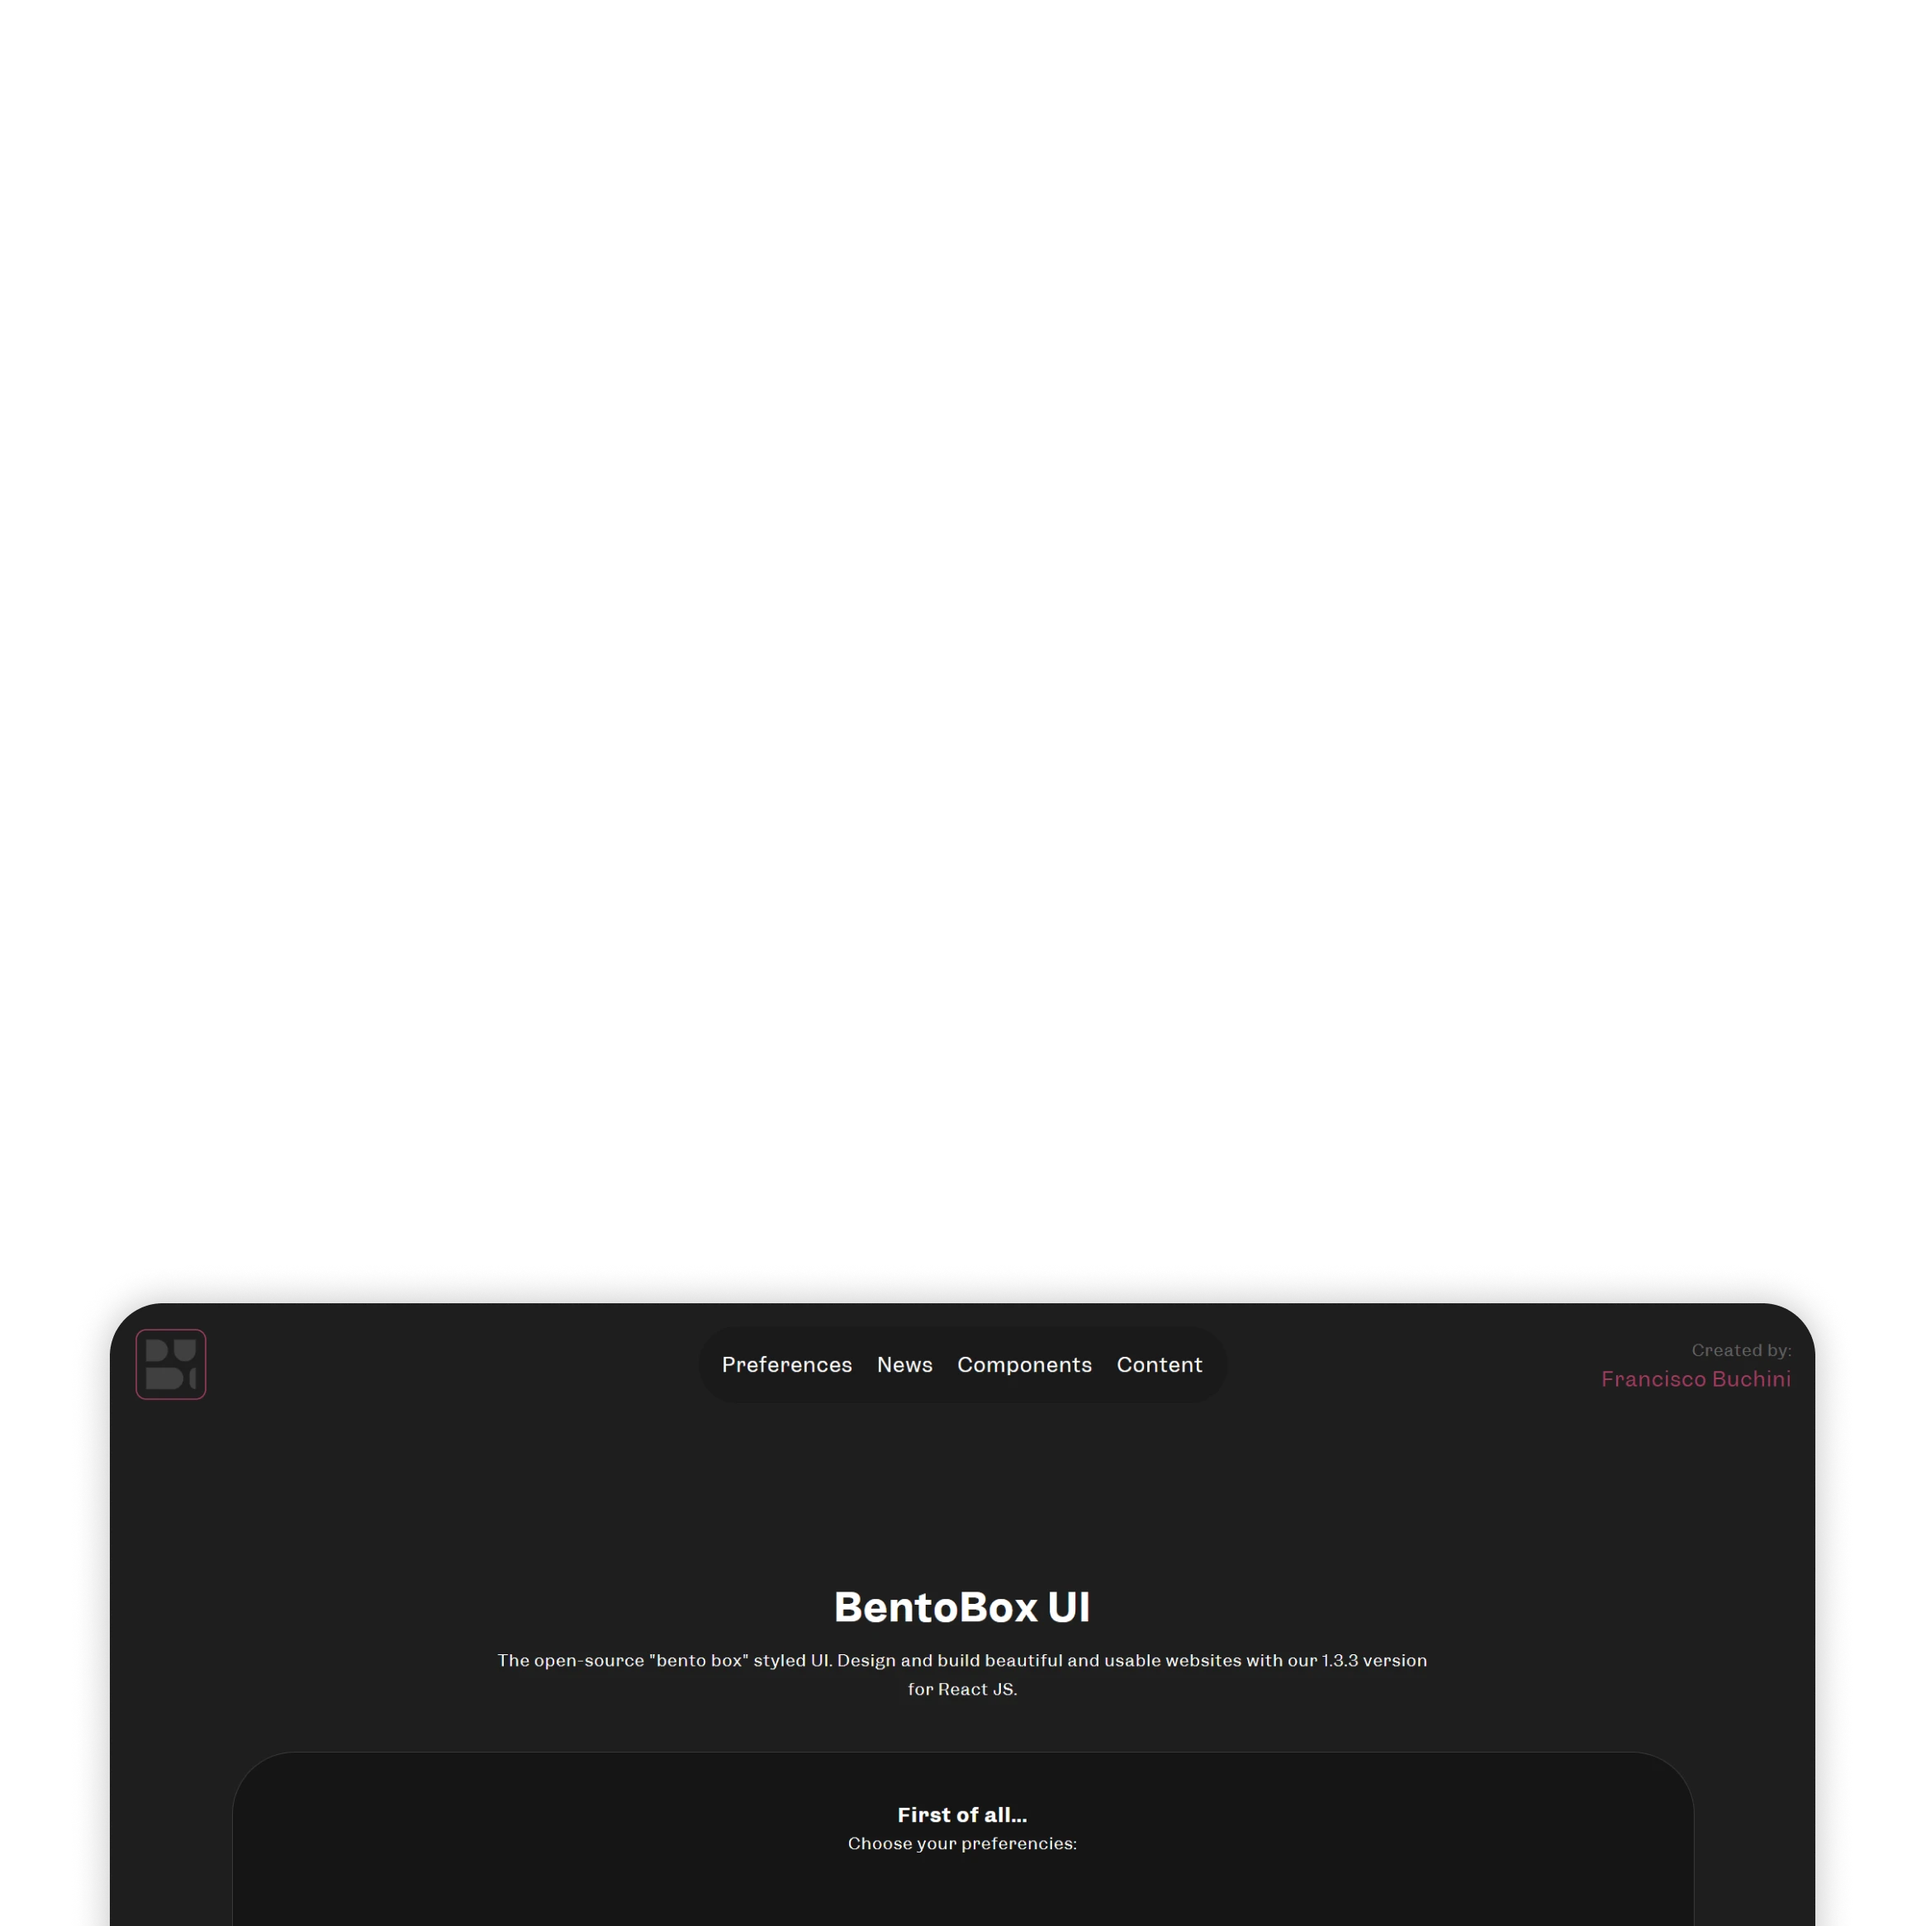
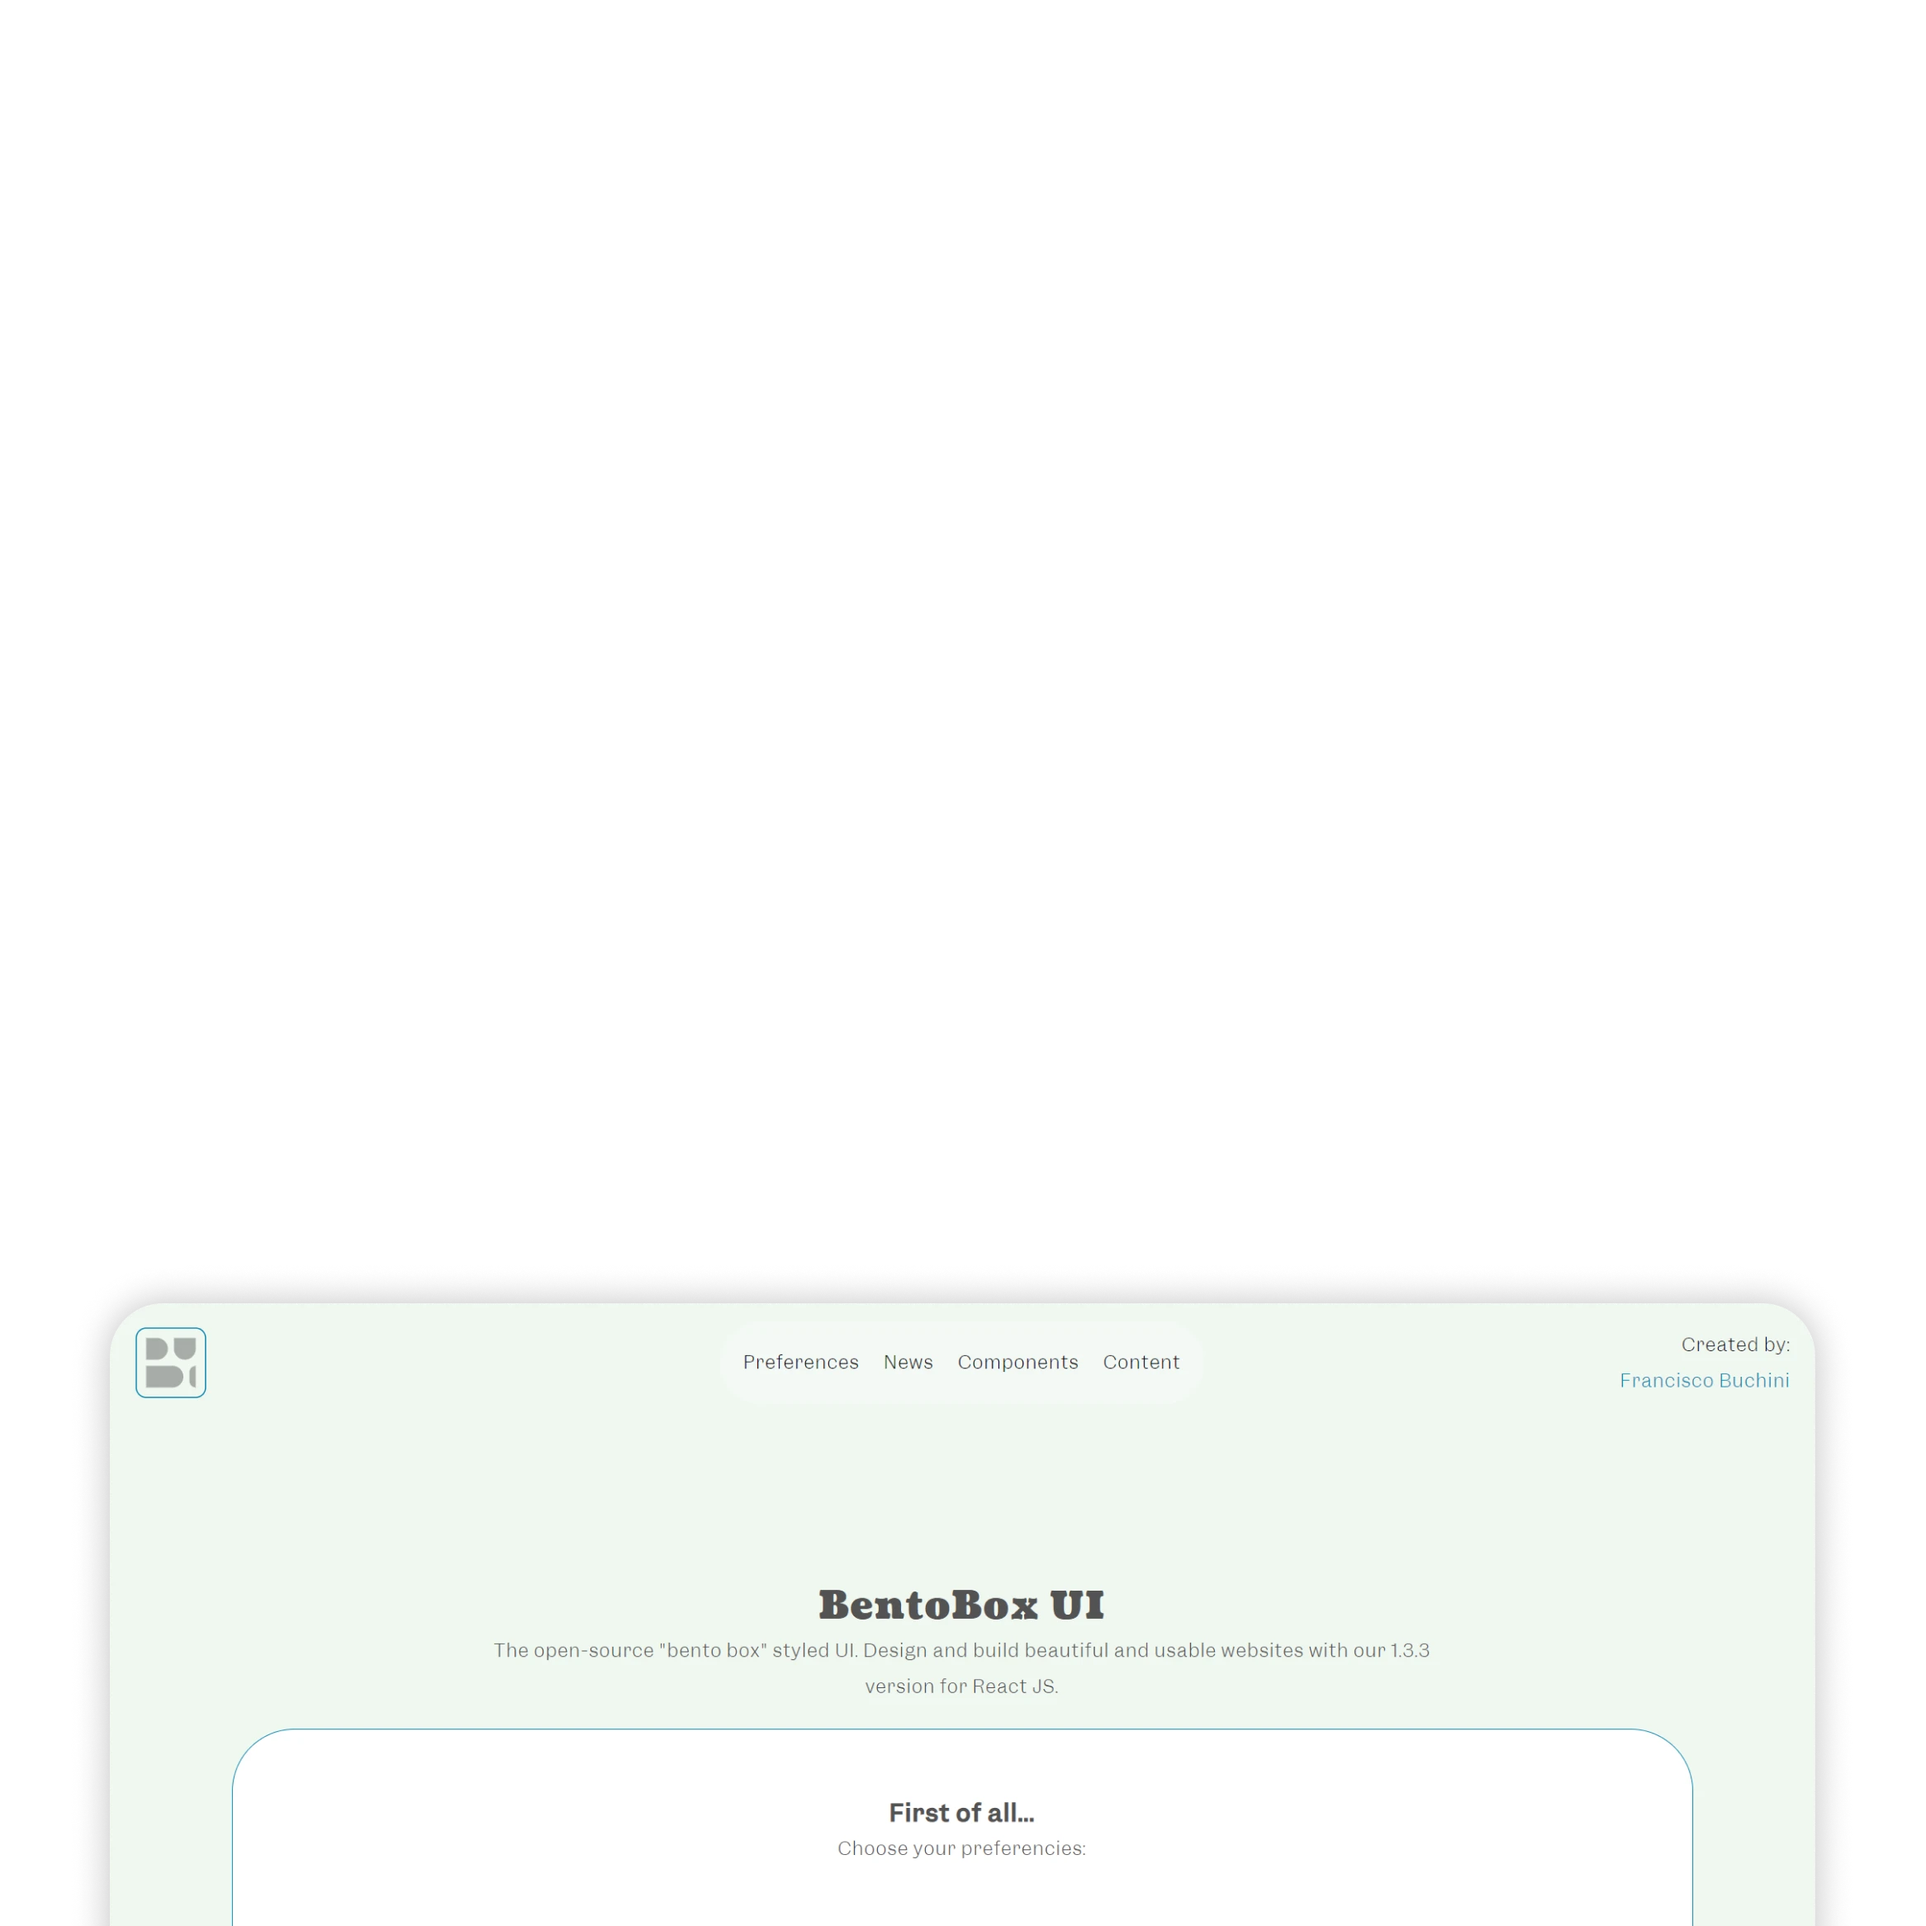
changed the theme

Changed region(s): [[0.0309, 0.6792, 0.9571, 1.0]]

diff --git a/src/App.jsx b/src/App.jsx
@@ -120,7 +120,7 @@ function App() {
       Intro_05_Th4: "🏠 Nevada, USA (until July 2024)",
       Intro_06_Tp: "Download Resume:",
       Intro_07_Th4: "Professional objectives 🔭",
-      Intro_07_Tp: "Create exceptional digital experiences that are both visually appealing and highly functional. I seek to combine my passion for design with my technical skills to build intuitive and responsive user interfaces that improve interaction and satisfaction. <br> I prefer to work remotely to maintain a work-life balance, but I am open to relocation offers if they represent interesting opportunities.",
+      Intro_07_Tp: "I seek to combine my passion for design with my technical skills to build intuitive and responsive user interfaces that improve interaction and satisfaction. I'm looking for work remotely to maintain a work-life balance, but I am open to relocation offers if they represent interesting opportunities.",
       //-------------------------------------------------------------------------
       Projects_TAh1: "Projects 💻",
       Projects_01_Th4: "Programming:",
@@ -222,7 +222,7 @@ function App() {
       Intro_05_Th4: "🏠 Nevada, USA (hasta julio 2024)",
       Intro_06_Tp: "Descargar CV:",
       Intro_07_Th4: "Objetivos profesionales 🔭",
-      Intro_07_Tp: "Crear experiencias digitales excepcionales que sean tanto visualmente atractivas como altamente funcionales. Busco combinar mi pasión por el diseño con mis habilidades técnicas para construir interfaces de usuario intuitivas y responsivas que mejoren la interacción y satisfacción. <br> Prefiero trabajar de forma remota para mantener un equilibrio entre vida profesional y personal, pero estoy abierto a ofertas de reubicación si representan oportunidades interesantes. ",
+      Intro_07_Tp: "Busco combinar mi pasión por el diseño con mis habilidades técnicas para construir interfaces de usuario intuitivas y responsivas que mejoren la interacción y satisfacción. Busco trabajar de forma remota para mantener un equilibrio entre vida profesional y personal, pero estoy abierto a ofertas de reubicación si representan oportunidades interesantes. ",
       //-------------------------------------------------------------------------
       Projects_TAh1: "Proyectos 💻",
       Projects_01_Th4: "Programación:",

diff --git a/src/Theme.css b/src/Theme.css
@@ -285,7 +285,7 @@ header > .Header_Components > .Component > .Switch > input:checked:hover::before
   header > .Header_Components > .Component > .Switch > input::before,
   header > .Header_Components > .Component > .Switch > input:checked::before {
     background-color: var(--black);
-    color: var(--stroke);
+    color: var(--light);
   }
 
   header > .Header_Components > .Component > .Switch > input:hover::before,
